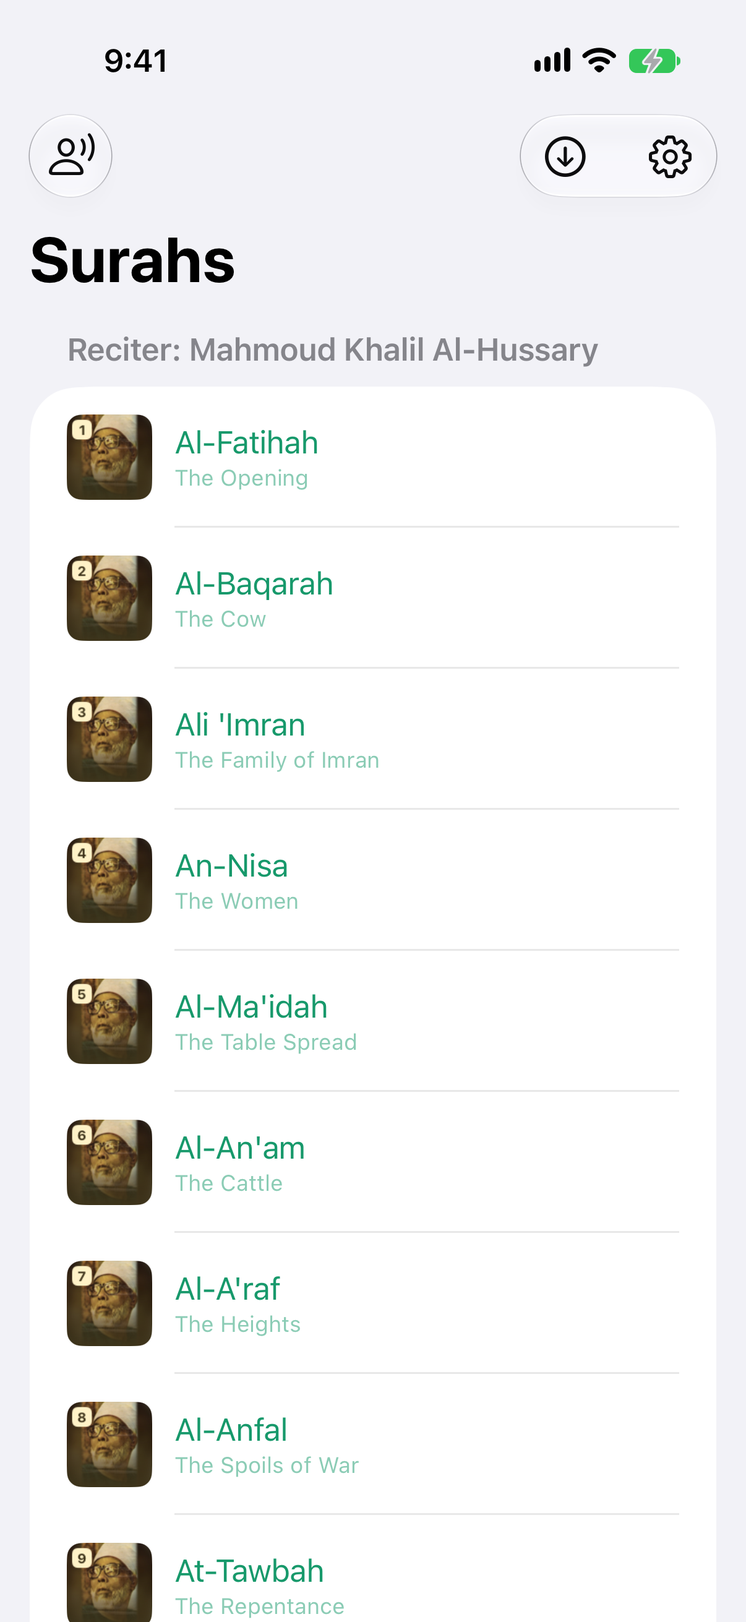
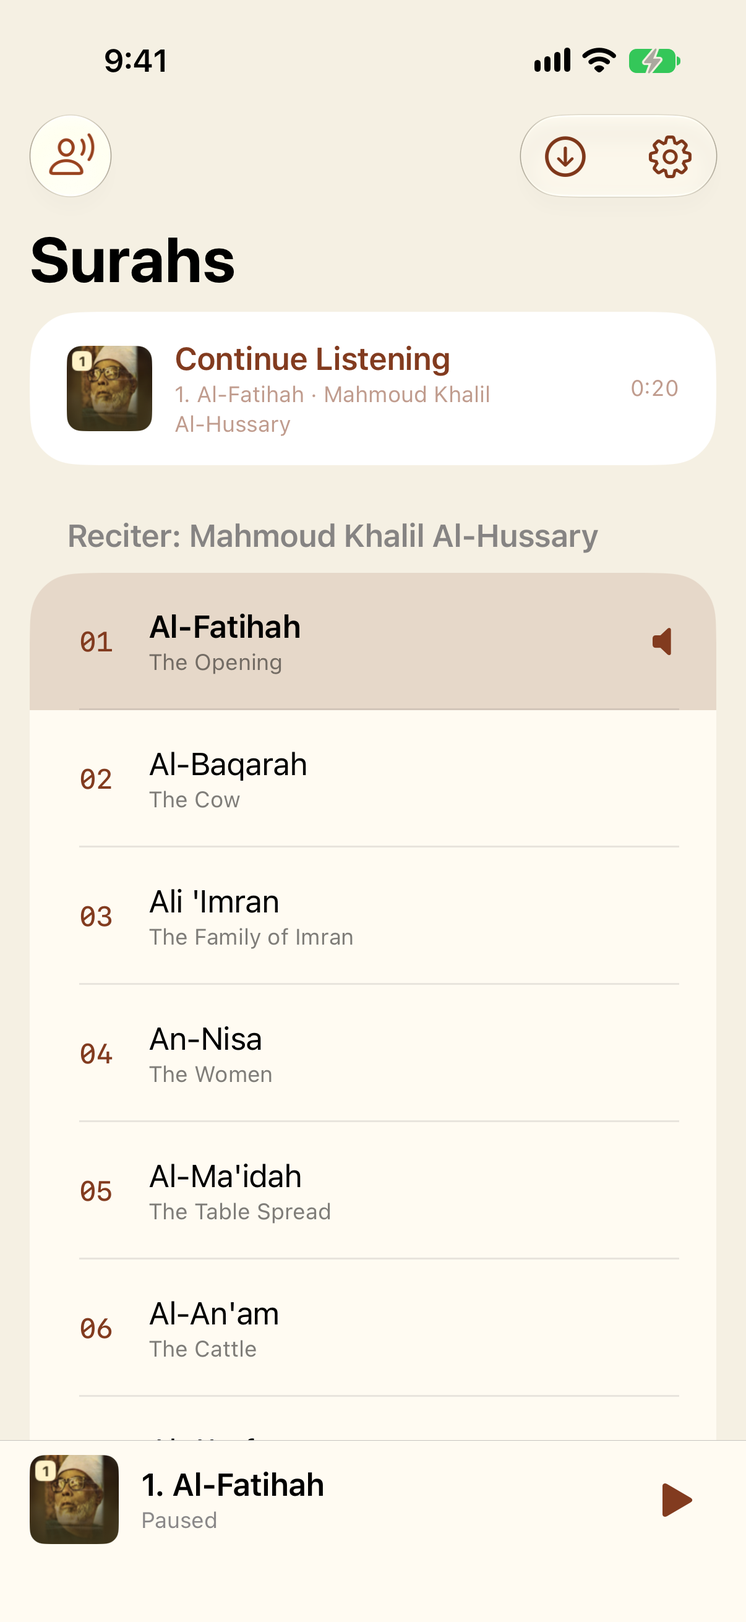
Prepare Quran Carplayer build 8 for iPhone and iPad review

diff --git a/docs/privacy/index.html b/docs/privacy/index.html
@@ -94,7 +94,7 @@ footer {
     <article>
 <h1>Privacy Policy — Quran Carplayer</h1>
 <p><strong>Effective date:</strong> 16 November 2026<br />
-<strong>Last updated:</strong> 27 November 2026<br />
+<strong>Last updated:</strong> 28 November 2026<br />
 <strong>Developer:</strong> Yehia Fahmy<br />
 <strong>Contact:</strong> <a href="mailto:yehia.fahmy@uwaterloo.ca">yehia.fahmy@uwaterloo.ca</a></p>
 <p>This Privacy Policy describes how <strong>Quran Carplayer</strong> (“the App”) handles information. It applies to the App on iPhone, iPad in supported builds, and Apple CarPlay through a connected iPhone.</p>
@@ -102,7 +102,7 @@ footer {
 <ul>
 <li>The App does <strong>not</strong> require an account and does <strong>not</strong> ask you to provide your name, email, or phone number to use it.</li>
 <li>Preferences, listening progress, and optional offline audio files are stored <strong>on your device</strong>.</li>
-<li>When you stream or download recitations, the App contacts the audio provider over HTTPS. Build 7 uses <strong>MP3Quran</strong>. Build 6 uses Quran Foundation.</li>
+<li>When you stream or download recitations, the App contacts the audio provider over HTTPS. Builds 7 and 8 use <strong>MP3Quran</strong>. Build 6 uses Quran Foundation.</li>
 <li>The App does <strong>not</strong> include advertising, analytics, crash-reporting, or tracking SDKs, and does <strong>not</strong> use App Tracking Transparency / advertising identifiers for tracking.</li>
 <li>We do <strong>not</strong> sell your personal information.</li>
 </ul>
@@ -121,13 +121,13 @@ footer {
 <p>We do <strong>not</strong> operate an account system, cloud sync service, or developer backend that receives these local preferences, session files, or offline downloads.</p>
 <h2>Network activity</h2>
 <h3>Audio streaming and downloads</h3>
-<p>Reciter catalog metadata used by the App is bundled with the App. Audio itself is fetched over HTTPS from MP3Quran (<code>cdn.mp3quran.net</code>) in build 7 or from Quran Foundation’s audio host (<code>download.quranicaudio.com</code>) in build 6 when you:</p>
+<p>Reciter catalog metadata used by the App is bundled with the App. Audio itself is fetched over HTTPS from MP3Quran (<code>cdn.mp3quran.net</code>) in builds 7 and 8 or from Quran Foundation’s audio host (<code>download.quranicaudio.com</code>) in build 6 when you:</p>
 <ul>
 <li>stream a recitation, or</li>
 <li>download a recitation for offline use.</li>
 </ul>
 <p>Those requests necessarily include ordinary technical request data that any HTTPS client sends (for example, IP address, user-agent style network metadata, and the URL of the requested audio file) so the CDN can deliver the file. The App does not add an analytics identity, advertising ID, or account credential to those requests.</p>
-<p>MP3Quran’s <a href="https://www.mp3quran.net/privacy-en.html">privacy policy</a> describes website logs that include the visitor’s IP address, visit time, country and referring page. It does not specify how long the audio host keeps requests or whether it stores the chapter URL with the listener’s IP address. For build 6, Quran Foundation describes website logs in its <a href="https://quran.com/privacy">privacy policy</a>. A recording choice may reveal religious interests. The app does not create a religious profile or use listening activity for advertising, profiling, or AI training. Playing a saved chapter reads the audio from your device.</p>
+<p>MP3Quran’s <a href="https://www.mp3quran.net/privacy-en.html">privacy policy</a> describes website logs that include the visitor’s IP address, visit time, country and referring page. MP3Quran confirmed that its audio CDN logs general access requests for delivery and operational security. It says it does not use those logs to track listeners or share them with third parties. We are awaiting clarification on whether a stored record pairs a listener’s IP address with the chapter URL, whether that address is anonymized before logging, and how long the record is normally kept. For build 6, Quran Foundation describes website logs in its <a href="https://quran.com/privacy">privacy policy</a>. A recording choice may reveal religious interests. The app does not create a religious profile or use listening activity for advertising, profiling, or AI training. Playing a saved chapter reads the audio from your device.</p>
 <h3>Minshawi’s portrait</h3>
 <p>When the app needs this portrait, it checks the App Store storefront through StoreKit. In the Canadian and U.S. storefronts it can fetch one historical JPEG from Wikimedia Commons over HTTPS and cache it privately on your device for offline display. Wikimedia logs image requests, including the IP address and image URL, and can derive an approximate location from the IP address. Its traffic logs are generally purged after 90 days. See <a href="https://wikitech.wikimedia.org/wiki/Data_Platform/Data_Lake/Traffic/Webrequest">Wikimedia’s request-log documentation</a>. The request contains no chapter number, listening position or account identifier. Where the image is unavailable, the app draws geometric artwork locally. See the <a href="https://foundation.wikimedia.org/wiki/Policy:Privacy_policy">Wikimedia privacy policy</a>.</p>
 <h3>Links you open</h3>

diff --git a/docs/support/index.html b/docs/support/index.html
@@ -97,7 +97,7 @@ footer {
 <p>Email <a href="mailto:yehia.fahmy@uwaterloo.ca">yehia.fahmy@uwaterloo.ca</a> for help. Include your device model, OS version, app version from <strong>Settings → About</strong>, and what happened. For playback issues, include the reciter, surah, and whether you were streaming, listening offline, or using CarPlay.</p>
 <h2>Listening and downloads</h2>
 <p>Choose a reciter, then tap a surah to start listening. The app saves your place on the device. Open <strong>Settings → Manage Downloads</strong> to play, retry, or remove a saved recording.</p>
-<p>Build 7 streams from MP3Quran. Tap <strong>Download for Offline</strong> in the player to save that recording until you remove it. Build 6 uses Quran Foundation recordings with a seven-day offline period. After upgrading, previously saved Foundation recordings can still be played from Downloads until their original expiry. Downloaded audio is excluded from device backups.</p>
+<p>Builds 7 and 8 stream from MP3Quran. Tap <strong>Download for Offline</strong> in the player to save that recording until you remove it. Build 6 uses Quran Foundation recordings with a seven-day offline period. After upgrading, previously saved Foundation recordings can still be played from Downloads until their original expiry. Downloaded audio is excluded from device backups.</p>
 <p>If a stream stops, check your connection and tap <strong>Retry</strong>. For offline playback, open the saved recording from Downloads. To clear all local app data, delete the app from the device.</p>
 <h2>Themes and screen sizes</h2>
 <p>In builds with <strong>Settings → Theme</strong>, swipe left or right to preview a theme, then tap Confirm theme to apply it. Leaving the picker discards an unconfirmed preview. The previews adapt to your window and orientation. <strong>System Appearance</strong> follows your device and uses Folio in light mode and Nocturne in dark mode. Your selection is saved on that device.</p>

diff --git a/docs/terms/index.html b/docs/terms/index.html
@@ -93,11 +93,11 @@ footer {
     </nav>
     <article>
 <h1>Terms of Use — Quran Carplayer</h1>
-<p>Updated 27 November 2026.</p>
+<p>Updated 28 November 2026.</p>
 <h2>App license</h2>
 <p>Quran Carplayer is available free of charge. The app is licensed under <a href="https://www.apple.com/legal/internet-services/itunes/dev/stdeula/">Apple’s Standard Licensed Application End User License Agreement</a>.</p>
 <h2>Recitation audio</h2>
-<p>Build 7 uses MP3Quran for streaming and new offline downloads. MP3Quran describes its permissions for copying material and using links in its <a href="https://www.mp3quran.net/privacy-en.html">copyright notice</a>. The player identifies the reciter for each performance.</p>
+<p>Builds 7 and 8 use MP3Quran for streaming and new offline downloads. MP3Quran describes its permissions for copying material and using links in its <a href="https://www.mp3quran.net/privacy-en.html">copyright notice</a>. The player identifies the reciter for each performance.</p>
 <p>Build 6 used editions supplied by Quran Foundation. Recordings saved from those editions expire seven days after download, including after an upgrade. Quran Foundation describes the conditions for its supplied content in its <a href="https://api-docs.quran.foundation/legal/developer-terms/">developer terms</a>.</p>
 <h2>Portraits and credits</h2>
 <p>Each credited portrait has its own source and license. Open <strong>Settings → Privacy &amp; Support → Sources</strong> in builds with the Sources screen, or the portrait credits directly in Settings in earlier versions. Follow the source and license listed for the particular image when considering reuse.</p>

diff --git a/docs/app-store-connect/listing.md b/docs/app-store-connect/listing.md
@@ -1,6 +1,6 @@
 # Quran Carplayer · App Store listing
 
-English (Canada) primary localization for iPhone version 1.0.0, build 7.
+English (Canada) primary localization for iPhone and iPad version 1.0.0, build 8.
 
 ## Product page
 
@@ -18,13 +18,13 @@ Choose from nine reciters before you drive. Save a surah on your iPhone for offl
 
 **Description**
 
-Listen to all 114 surahs of the Quran on your iPhone or with Apple CarPlay. Choose among nine reciters, including Maher Al-Muaiqly, Mishary Rashid Alafasy, and Mahmoud Khalil Al-Hussary. Each recites the complete Quran in Arabic.
+Listen to all 114 surahs of the Quran on iPhone or iPad, or in the car with Apple CarPlay. Choose among nine reciters, including Maher Al-Muaiqly, Mishary Rashid Alafasy, and Mahmoud Khalil Al-Hussary. Each recites the complete Quran in Arabic.
 
 Before a trip, open a surah and tap Download for Offline. That recording will play even when your route takes you out of coverage. Use Downloads to play or remove saved recordings at any time.
 
 In the car, browse by surah or reciter on the CarPlay display. When you return, Continue Listening takes you back to your saved place. You can also control playback from your iPhone’s Lock Screen.
 
-Choose an English or Arabic interface in Settings. Quran Carplayer is free and has no ads, subscriptions, or account registration.
+On iPad, browse the chapter list alongside the player in a wide window. In Settings, choose English or Arabic and preview listening themes before applying one. Quran Carplayer is free and has no ads, subscriptions, or account registration.
 
 **Keywords**
 
@@ -48,24 +48,24 @@ https://yehia-fahmy.github.io/QuranCarPlayer/privacy/
 
 **Notes for Review**
 
-Quran Carplayer 1.0.0 (7) is a free iPhone audio app with the CarPlay Audio entitlement. The app opens directly to the surah list.
+Quran Carplayer 1.0.0 (8) is a free iPhone and iPad audio app with CarPlay Audio on iPhone. The app opens directly to the surah list.
 
-1. On iPhone, tap Reciters at the upper left, select Maher Al-Muaiqly, and tap Done. Select Al-Fatihah (chapter 1) to start playback. The player shows the reciter and chapter artwork. Pause partway through to try Continue Listening.
+1. In the compact layout, tap Reciters at the upper left. In the wide layout, open the library options menu (…) and tap Reciters. Select Maher Al-Muaiqly and tap Done. Select Al-Fatihah (chapter 1) to start playback. The player shows the reciter and chapter artwork. Pause partway through to try Continue Listening.
 2. While online, open Al-Fatihah and tap Download for Offline. Wait for Available Offline. To verify a fresh offline start, close the app, turn off cellular data and Wi-Fi, reopen the app, and select Al-Fatihah with the same reciter. Use Downloads on the Surahs screen to see or remove the saved recording. MP3Quran downloads stay in the app until removed.
 3. With a CarPlay display connected, open Quran Carplayer on the display. Choose Reciters, select a reciter, then choose a chapter under Surahs. Smaller vehicle lists use numbered ranges. Open Listen to return to Now Playing or resume an interrupted chapter. The same saved recording can play offline on CarPlay.
 4. On iPhone, open Settings in Quran Carplayer to switch between English and Arabic or review the audio and artwork credits. Recordings stream directly from MP3Quran. Private downloads are playable only in the app. Settings links to the sources and licenses for the portraits. The historical Al-Minshawi photograph is fetched only for confirmed Canadian and U.S. storefronts. Other storefronts display geometric chapter artwork for this reciter.
 
-MP3Quran gives developers permission to copy material and use recording links in its copyright notice at https://www.mp3quran.net/privacy-en.html
+On November 28, 2026, MP3Quran gave Quran Carplayer written permission for worldwide streaming and in-app offline listening for all nine included editions. The original confirmation is available on request. The public copyright notice is at https://www.mp3quran.net/privacy-en.html
 
 Portrait sources, licenses and territorial permissions are documented at https://github.com/Yehia-Fahmy/QuranCarPlayer/blob/main/docs/ARTWORK_ATTRIBUTION.md
 
 ## App record and distribution
 
-- **Bundle ID** — `com.yehiafahmy.QuranCarPlayerApp`. Select iOS 1.0.0, build 7 after processing. The platform version is the initial listing, so Apple omits the What’s New field.
+- **Bundle ID** — `com.yehiafahmy.QuranCarPlayerApp`. Select iOS 1.0.0, build 8 after processing. The platform version is the initial listing, so Apple omits the What’s New field.
 - **Category** — Reference. Apple includes religion in this category. The chapter-by-chapter catalog is the app’s primary navigation. [Apple’s category guide](https://developer.apple.com/app-store/categories/)
 - **Distribution** — Public App Store, Free. Use Specific Countries or Regions, including Canada, the United States, and all other eligible storefronts. Exclude China mainland unless the developer obtains the required Internet Religious Information Permit. Record any further restriction reported for this account before enabling that storefront. [Availability settings](https://developer.apple.com/help/app-store-connect/manage-your-apps-availability/manage-availability-for-your-app-on-the-app-store/) · [Regional requirements](https://developer.apple.com/help/app-store-connect/reference/app-information/app-and-compliance-information/) · [Pricing](https://developer.apple.com/help/app-store-connect/reference/pricing-and-availability/app-pricing-and-availability/)
 - **Agreements** — Apple’s standard EULA, consistent with the app’s published terms. Apple recorded the account-wide non-trader declaration as Active for all 27 EU territories on November 27, 2026. [App compliance](https://developer.apple.com/help/app-store-connect/reference/app-information/app-and-compliance-information/) · [EU trader requirements](https://developer.apple.com/help/app-store-connect/manage-compliance-information/manage-european-union-digital-services-act-trader-requirements/)
-- **Encryption** — The shipping Info.plist declares `ITSAppUsesNonExemptEncryption = false`. Build 7 uses Apple frameworks for HTTPS and file-digest verification. [Build manifest](../../App/Info.plist)
+- **Encryption** — The shipping Info.plist declares `ITSAppUsesNonExemptEncryption = false`. Build 8 uses Apple frameworks for HTTPS and file-digest verification. [Build manifest](../../App/Info.plist)
 - **Age rating** — General audience, outside the Kids category. The app has no parental controls, age assurance, unrestricted in-app web access, user-generated content, social media, messaging, shared location, dating, advertising, gambling, contests, or loot boxes. It consists of spoken religious recitation and static artwork. Suggested content-frequency entries are *infrequent* for alcohol references, weapons references, mature or suggestive themes, fear themes, and realistic violence in the narration. Examples include references to intoxicants (5:90), weapons (4:102), attempted seduction (12:23), afterlife punishment (4:56), and a killing (5:30). These are editorial classifications of the recordings. The remaining descriptors concern features or depictions outside this build. Use Apple’s calculated ratings for each storefront. [Apple’s questionnaire definitions](https://developer.apple.com/help/app-store-connect/reference/app-information/age-ratings-values-and-definitions/) · [5:90](https://quran.com/5/90) · [4:102](https://quran.com/4/102) · [12:23](https://quran.com/12/23) · [4:56](https://quran.com/4/56) · [5:30](https://quran.com/5/30)
 - **Content rights** — The app accesses third-party audio and displays third-party portraits. Review the rights evidence for the enabled storefronts when completing Apple's declaration. [Recordings](rights-evidence/mp3quran-2026-11-27.md) · [Portraits and territories](../ARTWORK_ATTRIBUTION.md)
 

diff --git a/docs/RELEASE_READINESS.md b/docs/RELEASE_READINESS.md
@@ -1,6 +1,14 @@
 # iPhone and CarPlay release record
 
-November 27, 2026 · version 1.0.0, builds 3–7
+November 28, 2026 · version 1.0.0, builds 3–8
+
+## Current review candidate
+
+Apple accepted version 1.0.0 (8) for processing on November 28 at 7:55 a.m. Toronto time. The signed archive supports iPhone and iPad and includes the CarPlay Audio entitlement. This candidate adds the adaptive library and theme previews, explicit theme confirmation, and the Settings appearance fix. [Build 8 reviewer notes](app-store-connect/listing.md)
+
+The prepared gallery has four native screenshots per display set. The captures use production MP3Quran audio and show an actual downloaded recording. The 13-inch iPad set also shows the theme picker in a wide window. [Large iPhone](app-store-connect/screenshots/en-US/dynamic-island-large/) · [Medium iPhone](app-store-connect/screenshots/en-US/dynamic-island-medium/) · [13-inch iPad](app-store-connect/screenshots/en-US/ipad-13/)
+
+Apple’s upload receipt confirms delivery. A fresh App Store Connect sign-in is needed to verify processing, attach the build, save the updated assets, and see Apple’s current validation messages. The last verified App Privacy draft is recorded below.
 
 ## Changes and verification
 
@@ -45,7 +53,7 @@ Build 4, with the public display name and portrait credit updates, passed all 70
 - **Public name.** The App Store Connect record uses the requested name, **Quran Carplayer**, with English (Canada) as the primary language. Apple restricts use of variations of its trademarks in third-party product names. The resemblance to CarPlay may draw a review question. [Apple’s trademark guidelines](https://www.apple.com/legal/intellectual-property/guidelinesfor3rdparties.html)
 - **Storefronts.** The live record has a zero-price schedule and 174 selected storefronts, including Canada and the United States. China mainland was deselected. China mainland requires an Internet Religious Information Permit for religious content. Account eligibility, recording rights and local requirements determine actual availability. The account-wide non-trader declaration is Active for all 27 EU countries. [Apple availability settings](https://developer.apple.com/help/app-store-connect/manage-your-apps-availability/manage-availability-for-your-app-on-the-app-store/) · [Mainland China requirements](https://developer.apple.com/help/app-store-connect/reference/app-information/app-and-compliance-information/) · [EU trader declaration](https://developer.apple.com/help/app-store-connect/manage-compliance-information/manage-european-union-digital-services-act-trader-requirements/)
 - **International artwork.** Build 6 bundles eight photos. The Mishary photograph carries a noncommercial license and the product is free, without ads or purchases. The 1954 Minshawi portrait is an on-demand image for confirmed Canadian and U.S. storefronts. Other storefronts display original geometric artwork. The worldwide review sheets show the bundled behavior. [Artwork sources and territorial evidence](ARTWORK_ATTRIBUTION.md)
-- [x] **MP3Quran audio rights cleared for build 7.** On November 28, 2026, MP3Quran confirmed that Quran Carplayer may offer all nine catalog editions for worldwide streaming and in-app offline listening. No specific attribution is required. [Recording catalog and permission evidence](app-store-connect/rights-evidence/mp3quran-2026-11-27.md)
+- [x] **MP3Quran audio rights cleared for builds 7 and 8.** On November 28, 2026, MP3Quran confirmed that Quran Carplayer may offer all nine catalog editions for worldwide streaming and in-app offline listening. No specific attribution is required. [Recording catalog and permission evidence](app-store-connect/rights-evidence/mp3quran-2026-11-27.md)
 - [ ] **CDN privacy disclosure.** MP3Quran confirmed security and delivery logging. A November 28 follow-up asks whether stored records pair the listener’s IP with the chapter path, whether the IP is anonymized before logging, and how long the record is normally kept. [App Privacy worksheet](app-store-connect/privacy-and-rights.md)
 - **In-car acceptance.** Use the release candidate in a parked vehicle with the phone locked. Check actual display cropping and contrast, chapter 114 on a restricted list, steering-wheel controls, background playback, and a saved chapter in airplane mode. During a call, disconnect the car, end the call, and confirm silence on the phone. Reconnect with another audio source playing.
-- **App Store Connect.** Build 6 had the private review contact, Reference category, content-rights declaration, privacy policy URL and Apple-calculated 13+ rating. Its Media Manager contained four screenshots each for medium and large Dynamic Island displays. Apple listed App Privacy as its remaining review blocker. For build 7, select the replacement build and reconcile the live copy, screenshots and declarations with the restored MP3Quran catalog. Four data types were saved in the build 6 privacy draft. [Privacy and rights evidence](app-store-connect/privacy-and-rights.md)
+- **App Store Connect.** Build 6 had the private review contact, Reference category, content-rights declaration, privacy policy URL and Apple-calculated 13+ rating. Its Media Manager contained four screenshots each for medium and large Dynamic Island displays. Apple listed App Privacy as its remaining review blocker. For the current version, select processed build 8 and reconcile the live copy, iPhone and 13-inch iPad screenshots, and declarations with the current reviewer notes. Four data types were saved in the build 6 privacy draft. [Privacy and rights evidence](app-store-connect/privacy-and-rights.md)

diff --git a/docs/app-store-connect/privacy-and-rights.md b/docs/app-store-connect/privacy-and-rights.md
@@ -1,6 +1,6 @@
-# Build 7 privacy and content-rights answers
+# Builds 7 and 8 privacy and content-rights answers
 
-Updated November 28, 2026 for Quran Carplayer 1.0.0 (7). This worksheet records proposed App Store Connect entries and their evidence. The app has no account, advertising SDK, analytics SDK or developer backend. Its two built-in network features deliver audio and one regional portrait. [Production catalog](../../Packages/QuranCarPlayerCore/Sources/QuranCarPlayerCore/Catalog/MP3QuranCatalog.swift) · [Portrait downloader](../../App/Sources/Artwork/RegionalMinshawiPortraitStore.swift) · [Published policy](https://yehia-fahmy.github.io/QuranCarPlayer/privacy/)
+Updated November 28, 2026 for Quran Carplayer 1.0.0, builds 7 and 8. This worksheet records proposed App Store Connect entries and their evidence. The app has no account, advertising SDK, analytics SDK or developer backend. Its two built-in network features deliver audio and one regional portrait. [Production catalog](../../Packages/QuranCarPlayerCore/Sources/QuranCarPlayerCore/Catalog/MP3QuranCatalog.swift) · [Portrait downloader](../../App/Sources/Artwork/RegionalMinshawiPortraitStore.swift) · [Published policy](https://yehia-fahmy.github.io/QuranCarPlayer/privacy/)
 
 ## App Privacy
 
@@ -22,13 +22,13 @@ These proposed categories describe the known Wikimedia path. The audio provider 
 
 **Open CDN question.** MP3Quran says it retains general access logs as needed for operational security. The November 28 follow-up asks whether the CDN stores the IP address alongside the requested MP3 path after delivery, whether it anonymizes the address before logging, and how long it normally keeps that record. [MP3Quran’s policy](https://www.mp3quran.net/privacy-en.html) · [Provider correspondence record](rights-evidence/mp3quran-2026-11-27.md) · [Apple’s real-time delivery exception](https://developer.apple.com/app-store/app-privacy-details/)
 
-The separate inquiry to Quran Foundation concerned build 6. Build 7 makes its new audio requests to MP3Quran. The Foundation’s response applies to the earlier build.
+The separate inquiry to Quran Foundation concerned build 6. Builds 7 and 8 make their new audio requests to MP3Quran. The Foundation’s response applies to the earlier build.
 
 ## Content Rights
 
 **Does the app contain, show or access third-party content?** **Yes.** Apple can request permission covering streaming and user-initiated downloads in all offered regions. The November 28 provider reply documents worldwide authorization for the restored MP3Quran recordings. [App Store Connect content rights](https://developer.apple.com/help/app-store-connect/reference/app-information/app-information/) · [App Review Guidelines §§5.2.2–5.2.3](https://developer.apple.com/app-store/review/guidelines/#intellectual-property)
 
-- **New recordings.** MP3Quran’s published copyright notice permits developers to use site links and copy material. Build 7 streams from the provider and allows a user to save individual recordings in private storage until removal. The nine original editions each cover 114 chapters. MP3Quran expressly authorized all nine editions for streaming and offline listening in Quran Carplayer worldwide. No specific attribution is required. [MP3Quran copyright notice](https://www.mp3quran.net/privacy-en.html) · [Selected collections and written permission](rights-evidence/mp3quran-2026-11-27.md)
+- **New recordings.** MP3Quran’s published copyright notice permits developers to use site links and copy material. Both builds stream from the provider and allow a user to save individual recordings in private storage until removal. The nine original editions each cover 114 chapters. MP3Quran expressly authorized all nine editions for streaming and offline listening in Quran Carplayer worldwide. No specific attribution is required. [MP3Quran copyright notice](https://www.mp3quran.net/privacy-en.html) · [Selected collections and written permission](rights-evidence/mp3quran-2026-11-27.md)
 - **Existing recordings.** Downloads from earlier MP3Quran builds remain playable. The app also keeps eligible Foundation downloads inside the app for the remainder of their original seven days. [Build 6 offline terms and editions](rights-evidence/quran-foundation-catalog.md)
 
 - **Portraits.** Eight photos have recorded reuse terms and in-app credits. Mishary’s image uses a noncommercial grant on the basis of the publisher’s free, ad-free nonprofit use. Three CC BY-SA adaptations carry share-alike notices. Minshawi’s 1954 photo is delivered only for confirmed Canadian and U.S. storefronts, backed by the documented copyright basis in each. All other storefronts use the app’s own geometric artwork for that reciter. Use worldwide-cleared imagery in shared store screenshots. Recheck the noncommercial license if monetization changes. [Per-photo credits, licenses and regional analysis](../ARTWORK_ATTRIBUTION.md)

diff --git a/docs/privacy-policy.md b/docs/privacy-policy.md
@@ -1,7 +1,7 @@
 # Privacy Policy — Quran Carplayer
 
 **Effective date:** 16 November 2026  
-**Last updated:** 27 November 2026\
+**Last updated:** 28 November 2026\
 **Developer:** Yehia Fahmy  
 **Contact:** [yehia.fahmy@uwaterloo.ca](mailto:yehia.fahmy@uwaterloo.ca)
 
@@ -13,7 +13,7 @@ This Privacy Policy describes how **Quran Carplayer** (“the App”) handles in
 
 - The App does **not** require an account and does **not** ask you to provide your name, email, or phone number to use it.
 - Preferences, listening progress, and optional offline audio files are stored **on your device**.
-- When you stream or download recitations, the App contacts the audio provider over HTTPS. Build 7 uses **MP3Quran**. Build 6 uses Quran Foundation.
+- When you stream or download recitations, the App contacts the audio provider over HTTPS. Builds 7 and 8 use **MP3Quran**. Build 6 uses Quran Foundation.
 - The App does **not** include advertising, analytics, crash-reporting, or tracking SDKs, and does **not** use App Tracking Transparency / advertising identifiers for tracking.
 - We do **not** sell your personal information.
 
@@ -47,14 +47,14 @@ We do **not** operate an account system, cloud sync service, or developer backen
 
 ### Audio streaming and downloads
 
-Reciter catalog metadata used by the App is bundled with the App. Audio itself is fetched over HTTPS from MP3Quran (`cdn.mp3quran.net`) in build 7 or from Quran Foundation’s audio host (`download.quranicaudio.com`) in build 6 when you:
+Reciter catalog metadata used by the App is bundled with the App. Audio itself is fetched over HTTPS from MP3Quran (`cdn.mp3quran.net`) in builds 7 and 8 or from Quran Foundation’s audio host (`download.quranicaudio.com`) in build 6 when you:
 
 - stream a recitation, or
 - download a recitation for offline use.
 
 Those requests necessarily include ordinary technical request data that any HTTPS client sends (for example, IP address, user-agent style network metadata, and the URL of the requested audio file) so the CDN can deliver the file. The App does not add an analytics identity, advertising ID, or account credential to those requests.
 
-MP3Quran’s [privacy policy](https://www.mp3quran.net/privacy-en.html) describes website logs that include the visitor’s IP address, visit time, country and referring page. It does not specify how long the audio host keeps requests or whether it stores the chapter URL with the listener’s IP address. For build 6, Quran Foundation describes website logs in its [privacy policy](https://quran.com/privacy). A recording choice may reveal religious interests. The app does not create a religious profile or use listening activity for advertising, profiling, or AI training. Playing a saved chapter reads the audio from your device.
+MP3Quran’s [privacy policy](https://www.mp3quran.net/privacy-en.html) describes website logs that include the visitor’s IP address, visit time, country and referring page. MP3Quran confirmed that its audio CDN logs general access requests for delivery and operational security. It says it does not use those logs to track listeners or share them with third parties. We are awaiting clarification on whether a stored record pairs a listener’s IP address with the chapter URL, whether that address is anonymized before logging, and how long the record is normally kept. For build 6, Quran Foundation describes website logs in its [privacy policy](https://quran.com/privacy). A recording choice may reveal religious interests. The app does not create a religious profile or use listening activity for advertising, profiling, or AI training. Playing a saved chapter reads the audio from your device.
 
 ### Minshawi’s portrait
 

diff --git a/docs/support-page.md b/docs/support-page.md
@@ -8,7 +8,7 @@ Email [yehia.fahmy@uwaterloo.ca](mailto:yehia.fahmy@uwaterloo.ca) for help. Incl
 
 Choose a reciter, then tap a surah to start listening. The app saves your place on the device. Open **Settings → Manage Downloads** to play, retry, or remove a saved recording.
 
-Build 7 streams from MP3Quran. Tap **Download for Offline** in the player to save that recording until you remove it. Build 6 uses Quran Foundation recordings with a seven-day offline period. After upgrading, previously saved Foundation recordings can still be played from Downloads until their original expiry. Downloaded audio is excluded from device backups.
+Builds 7 and 8 stream from MP3Quran. Tap **Download for Offline** in the player to save that recording until you remove it. Build 6 uses Quran Foundation recordings with a seven-day offline period. After upgrading, previously saved Foundation recordings can still be played from Downloads until their original expiry. Downloaded audio is excluded from device backups.
 
 If a stream stops, check your connection and tap **Retry**. For offline playback, open the saved recording from Downloads. To clear all local app data, delete the app from the device.
 

diff --git a/docs/terms-of-use.md b/docs/terms-of-use.md
@@ -1,6 +1,6 @@
 # Terms of Use — Quran Carplayer
 
-Updated 27 November 2026.
+Updated 28 November 2026.
 
 ## App license
 
@@ -8,7 +8,7 @@ Quran Carplayer is available free of charge. The app is licensed under [Apple’
 
 ## Recitation audio
 
-Build 7 uses MP3Quran for streaming and new offline downloads. MP3Quran describes its permissions for copying material and using links in its [copyright notice](https://www.mp3quran.net/privacy-en.html). The player identifies the reciter for each performance.
+Builds 7 and 8 use MP3Quran for streaming and new offline downloads. MP3Quran describes its permissions for copying material and using links in its [copyright notice](https://www.mp3quran.net/privacy-en.html). The player identifies the reciter for each performance.
 
 Build 6 used editions supplied by Quran Foundation. Recordings saved from those editions expire seven days after download, including after an upgrade. Quran Foundation describes the conditions for its supplied content in its [developer terms](https://api-docs.quran.foundation/legal/developer-terms/).
 
